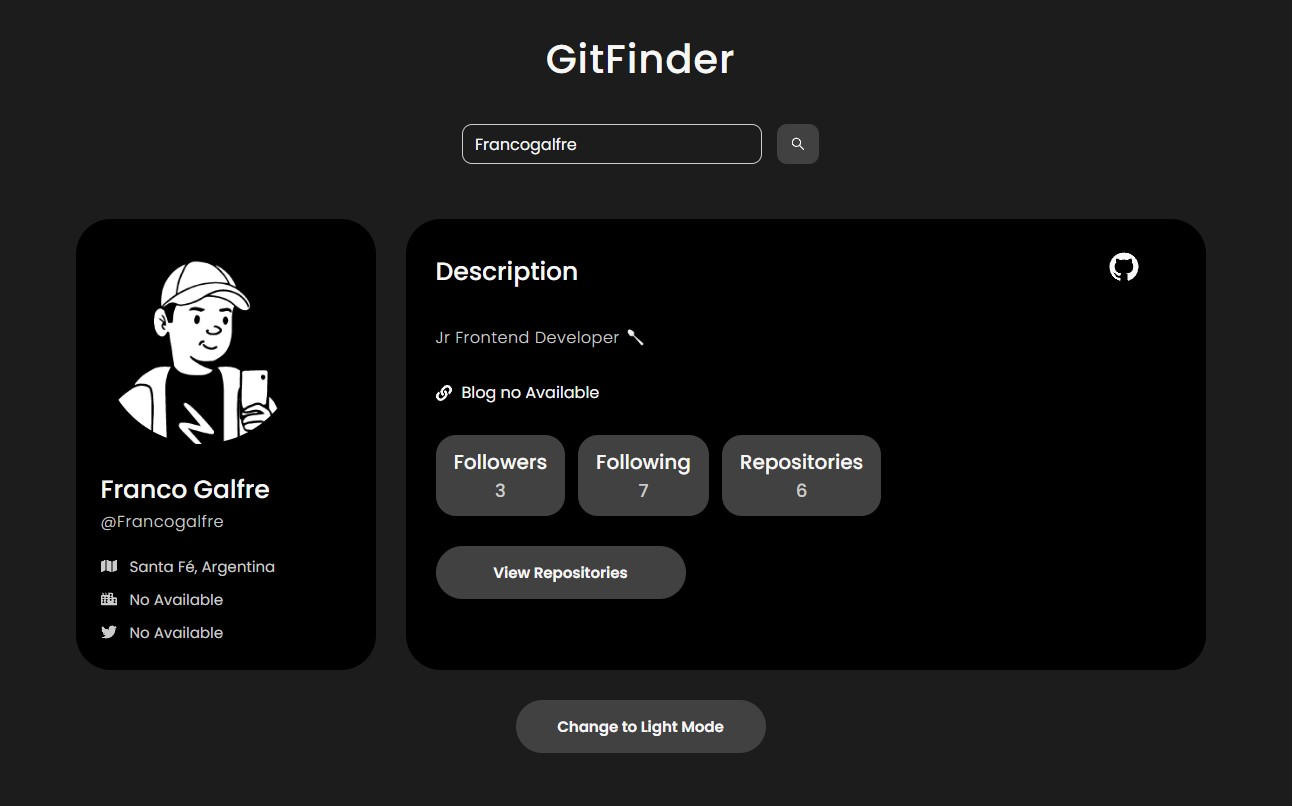
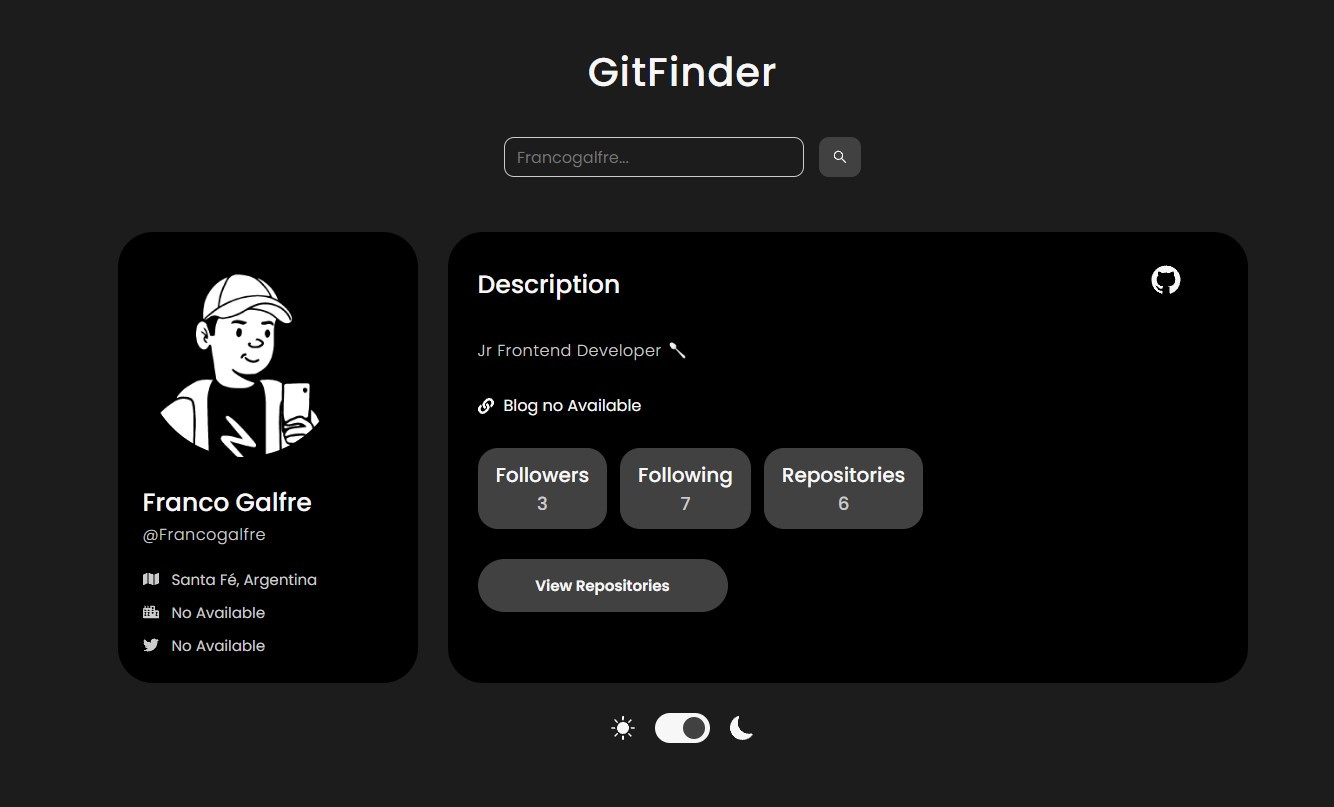
fix: add HTML font

diff --git a/src/components/Search/_Styled.js b/src/components/Search/_Styled.js
@@ -1,69 +1,69 @@
 // Styled Components
-import styled from "styled-components";
+import styled from "styled-components"
 
 export const Title = styled.h2`
-  color: ${(props) => props.theme.title};
-  font-weight: 500;
-  font-size: 40px;
-  letter-spacing: 1px;
-  padding-bottom: 35px;
-  transition: color 0.2s ease;
-`;
+	color: ${(props) => props.theme.title};
+	font-weight: 500;
+	font-size: 40px;
+	letter-spacing: 1px;
+	padding-bottom: 35px;
+	transition: color 0.2s ease;
+`
 
 export const Form = styled.form`
-  display: flex;
-  justify-content: center;
-  margin-bottom: 25px;
-  width: 100%;
-  height: 40px;
-  gap: 15px;
-`;
+	display: flex;
+	justify-content: center;
+	margin-bottom: 25px;
+	width: 100%;
+	height: 40px;
+	gap: 15px;
+`
 
 export const Input = styled.input`
-  background: transparent;
-  padding: 5px 12px;
-  width: 300px;
-  border: 1px solid #ccc;
-  border-radius: 10px;
-  font-size: 16px;
-  font-weight: 400;
-  color: ${(props) => props.theme.title};
-  transition: all 0.2s ease;
+	background: transparent;
+	padding: 5px 12px;
+	width: 300px;
+	border: 1px solid #ccc;
+	border-radius: 10px;
+	font-size: 16px;
+	font-weight: 400;
+	color: ${(props) => props.theme.title};
+	transition: all 0.2s ease;
 
-  &:focus-visible {
-    border: 1px solid #ccc;
-    outline: none;
-  }
+	&:focus-visible {
+		border: 1px solid #ccc;
+		outline: none;
+	}
 
-  &:hover {
-    transform: translateY(-2px);
-  }
+	&:hover {
+		transform: translateY(-2px);
+	}
 
-  @media screen and (max-width: 420px) {
-    width: 200px;
-  }
-`;
+	@media screen and (max-width: 420px) {
+		width: 200px;
+	}
+`
 
 export const Button = styled.button`
-  display: flex;
-  border: none;
-  align-items: center;
-  font-size: 16px;
-  color: ${(props) => props.theme.title};
-  background-color: ${(props) => props.theme.button};
-  transition: background-color 0.3s ease;
-  padding: 5px 13px;
-  border-radius: 10px;
-  cursor: pointer;
-  transition: all 0.2s ease;
+	display: flex;
+	border: none;
+	align-items: center;
+	font-size: 16px;
+	color: ${(props) => props.theme.title};
+	background-color: ${(props) => props.theme.button};
+	transition: background-color 0.3s ease;
+	padding: 5px 13px;
+	border-radius: 10px;
+	cursor: pointer;
+	transition: all 0.2s ease;
 
-  &:hover {
-    transform: translateY(-2px);
-  }
-`;
+	&:hover {
+		transform: translateY(-2px);
+	}
+`
 
 export const Error = styled.span`
-  font-size: 16px;
-  color: #ED4337;
-  padding: 5px 0px;
+	font-size: 16px;
+	color: #ed4337;
+	padding: 5px 0px;
 `

diff --git a/index.html b/index.html
@@ -1,13 +1,22 @@
 <!DOCTYPE html>
 <html lang="en">
-  <head>
-    <meta charset="UTF-8" />
-    <link rel="shortcut icon" href="Favicon.png" type="image/x-icon" />
-    <meta name="viewport" content="width=device-width, initial-scale=1.0" />
-    <title>Github Profile Explorer 🐱</title>
-  </head>
-  <body>
-    <div id="root"></div>
-    <script type="module" src="/src/main.jsx"></script>
-  </body>
+	<head>
+		<meta charset="UTF-8" />
+		<link rel="shortcut icon" href="Favicon.png" type="image/x-icon" />
+		<meta name="viewport" content="width=device-width, initial-scale=1.0" />
+		<meta name="author" content="Franco Galfre" />
+		<!--------- Font --------->
+		<link rel="preconnect" href="https://fonts.googleapis.com" />
+		<link rel="preconnect" href="https://fonts.gstatic.com" crossorigin />
+		<link
+			href="https://fonts.googleapis.com/css2?family=Poppins:wght@100;200;300;400;500;600;700;800;900&display=swap"
+			rel="stylesheet"
+		/>
+		<!--------- Title --------->
+		<title>Github Profile Explorer 🐱</title>
+	</head>
+	<body>
+		<div id="root"></div>
+		<script type="module" src="/src/main.jsx"></script>
+	</body>
 </html>
